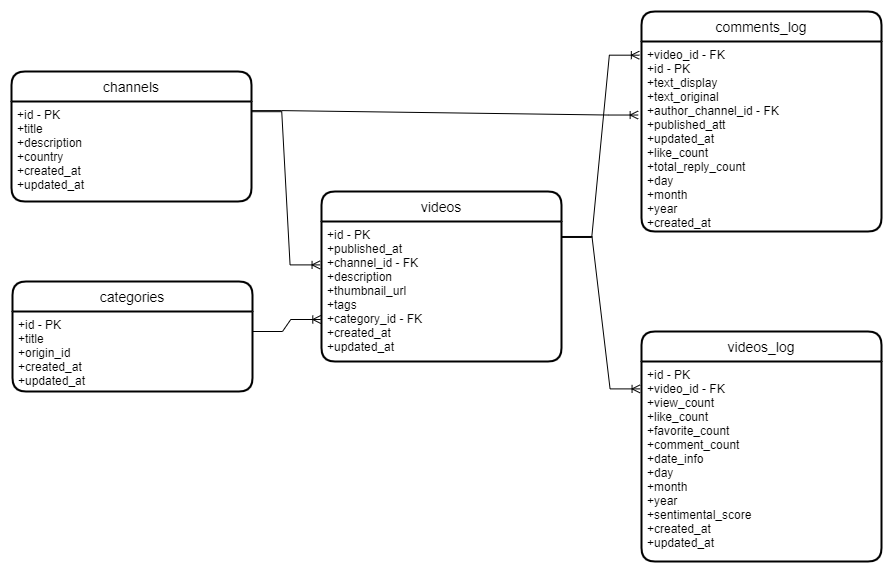
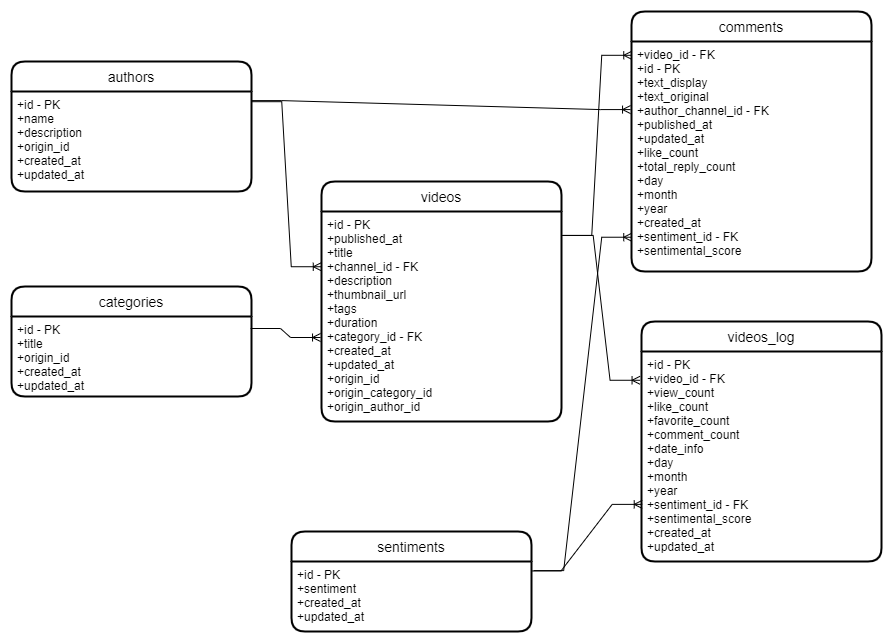
Read me (more info) and creating entity sentiment

Changed region(s): [[0.0, 0.0, 0.9989, 1.0], [0.3027, 0.8024, 0.6357, 1.0], [0.6357, 0.8322, 0.6659, 0.8619]]

diff --git a/app/domain/videos/repositories/sentiments.rb b/app/domain/videos/repositories/sentiments.rb
@@ -1,0 +1,44 @@
+# frozen_string_literal: true
+
+module UFeeling
+    module Videos
+      # ? Should this be called Repositories ??
+      module Repository
+        # Repository for Sentiments
+        class Sentiments
+  
+          def self.find_id(id)
+            rebuild_entity Database::SentimentOrm.first(id:)
+          end
+  
+          def self.find_title(sentiment)
+            rebuild_entity Database::SentimentOrm.first(sentiment:)
+          end
+  
+          def self.all
+            categories = Database::SentimentOrm.all
+            rebuild_many(sentiments)
+          end
+  
+          def self.rebuild_entity(db_record)
+            return nil unless db_record
+  
+            Entity::Sentiment.new(
+              id: db_record.id,
+              sentiment: db_record.sentiment
+            )
+          end
+  
+          def self.rebuild_many(db_records)
+            db_records.map do |db_member|
+              Sentiments.rebuild_entity(db_member)
+            end
+          end
+  
+          def self.find_or_create(entity)
+            Database::SentimentOrm.find_or_create(entity.to_attr_hash)
+          end
+        end
+      end
+    end
+  end

diff --git a/app/domain/videos/entities/sentiment.rb b/app/domain/videos/entities/sentiment.rb
@@ -1,0 +1,22 @@
+# frozen_string_literal: true
+
+require 'dry-types'
+require 'dry-struct'
+
+module UFeeling
+  module Videos
+    module Entity
+      # Provides access to category data
+      class Sentiment < Dry::Struct
+        include Dry.Types
+
+        attribute :id,            Coercible::Integer.optional
+        attribute :sentiment,     Strict::String
+
+        def to_attr_hash
+          to_hash.except(:id)
+        end
+      end
+    end
+  end
+end

diff --git a/README.md b/README.md
@@ -4,6 +4,10 @@
 
 Ü-Feeling is a web app that will pull data from YouTube's API, and generate sentiment analysis based on the comments in this platform.
 
+## Context
+
+YouTube is a platform that generates tons of data, that generates interactive metrics for content creators to analyze the performance and reach of their videos (e.g.  number of likes, comments, views, shares, etc.). We want to provide a new approach of analysis by creating a tool that presents an idea of the perception of the commenters, meaning to somehow understand the commenters sentiment for the video based on the wording of their comments, so that we can create an overall insight of how the commenters perceive a video.
+
 # Short-term usability goals
 
 - Analyze the sentiment of the YouTube users
@@ -18,13 +22,14 @@
 
 ## Entities
 
-In this case we are planning to have 5 entities:
+In this case we are planning to have 6 entities:
 
 - categories: All the categories that exist in youtube
 - videos: Record of all the videos that have been requested in the app
 - videos_log: Daily record about information and some statistics of all the videos that have been requested in the app
 - comments: Daily record about information and some statistics of all the comments from the videos that have been requested in the app
 - authors: Information about the authors from the videos that have been requested in the app
+- sentiments: Information about the sentiments that the videos can have
 
 ## Entity-Relationship Diagram
 
